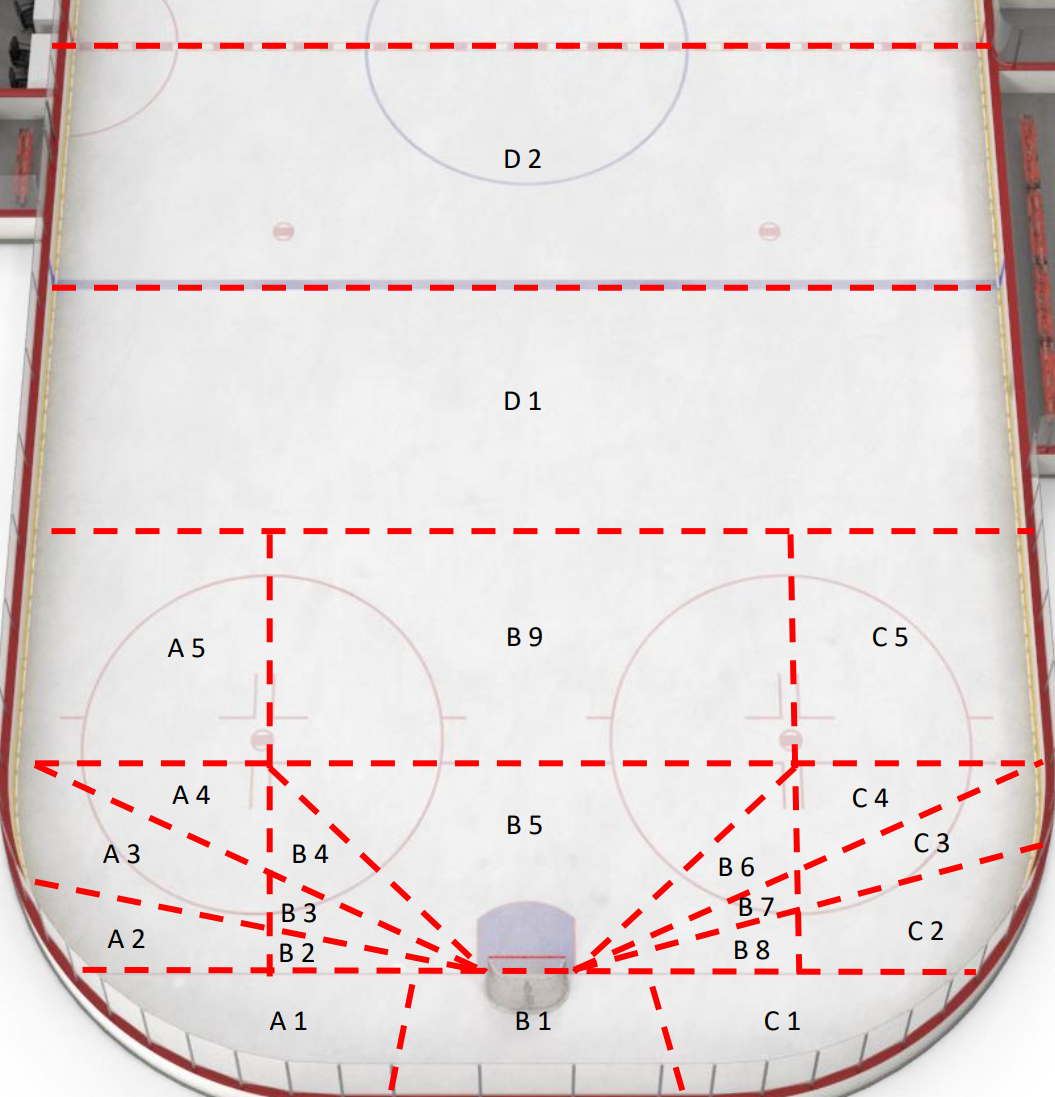
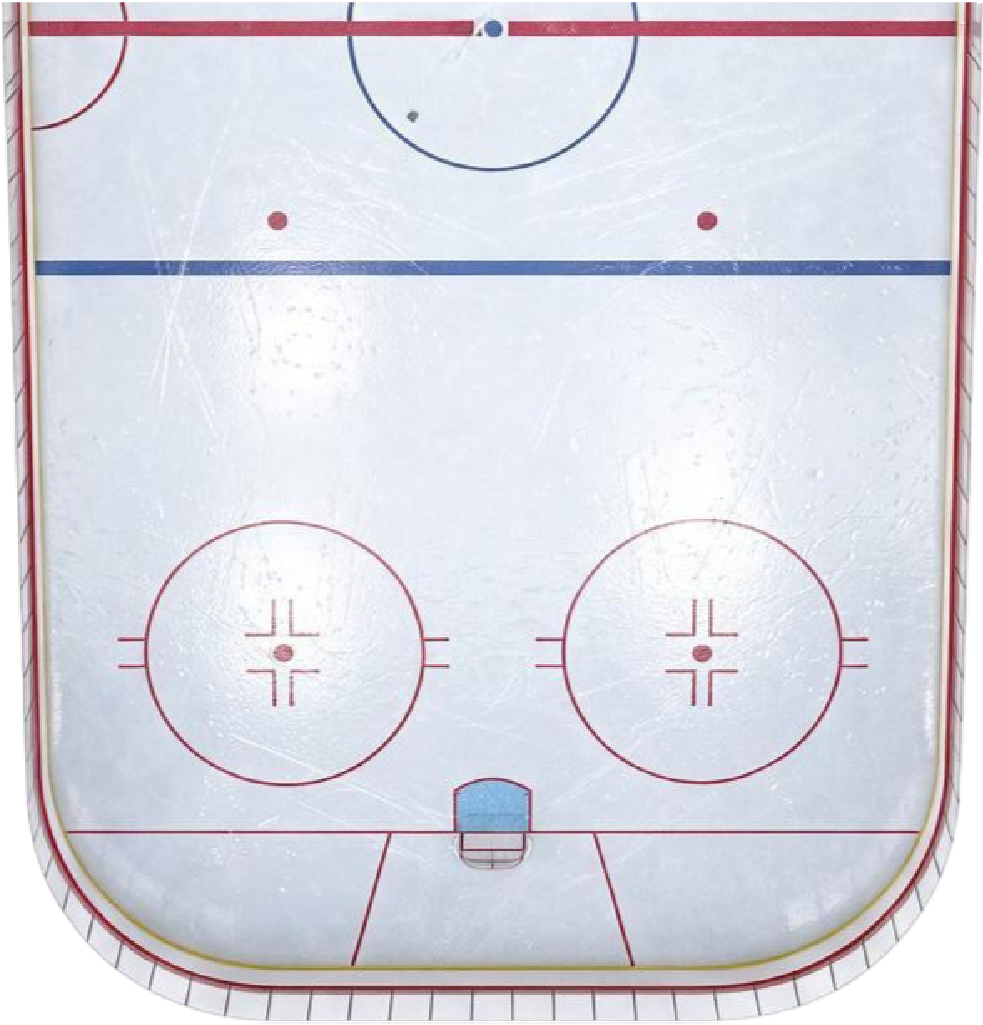
зона откуда забили - Ваня - на вратаре, убрать сетку по умолчанию - Ваня – доделать поле откуда - Ваня – заменить, где гол на ручку и сделать зеленым - Ваня – добавить дату на дневник голов (показывать Дата – потом счет) восстановлено (но есть в develop): подписи под шагами 2 и 3 пропуск второго шаг

diff --git a/lib/features/diary/ui/goal_input_wizard.dart b/lib/features/diary/ui/goal_input_wizard.dart
@@ -37,7 +37,10 @@ class _GoalInputWizardState extends ConsumerState<GoalInputWizard> {
   String? _debugColorCode;
 
   // Флаг для отображения отладочной сетки
-  bool _showDebugGrid = true;
+  bool _showDebugGrid = false;
+
+  // Сетка на шаге "Откуда" выключена по умолчанию
+  bool _showFromZoneGrid = false;
 
   //  Дизайн-система
   static const Color primaryText = Color(0xFF121212);
@@ -464,7 +467,7 @@ class _GoalInputWizardState extends ConsumerState<GoalInputWizard> {
 
   // ШАГ 3: Откуда бросок
   Widget _buildFromZoneStep() {
-    final double containerWidth = MediaQuery.of(context).size.width - 32;
+    final double containerWidth = MediaQuery.of(context).size.width;
     final double containerHeight = containerWidth * (1097 / 1055); // ✅ ОБНОВЛЁННЫЕ ПРОПОРЦИИ
 
     return Column(
@@ -477,8 +480,13 @@ class _GoalInputWizardState extends ConsumerState<GoalInputWizard> {
               const Text('Отметь откуда был бросок', style: TextStyle(fontFamily: 'Unbounded', fontSize: 14, fontWeight: FontWeight.w600, color: primaryText)),
               const SizedBox(width: 8),
               IconButton(
-                icon: Icon(_showDebugGrid ? Icons.grid_on : Icons.grid_off, color: _showDebugGrid ? accentColor : auxText),
-                onPressed: () => setState(() => _showDebugGrid = !_showDebugGrid),
+                icon: Icon(
+                  _showFromZoneGrid ? Icons.grid_on : Icons.grid_off,
+                  color: _showFromZoneGrid ? accentColor : auxText,
+                ),
+                onPressed: () => setState(
+                      () => _showFromZoneGrid = !_showFromZoneGrid,
+                ),
                 tooltip: 'Показать/скрыть сетку зон',
               ),
             ],
@@ -527,7 +535,9 @@ class _GoalInputWizardState extends ConsumerState<GoalInputWizard> {
                   children: [
                     Positioned.fill(
                       child: Image.asset(
-                        'assets/images/pole.png',
+                        _showFromZoneGrid
+                            ? 'assets/images/pole_zones.png'
+                            : 'assets/images/pole.png',
                         fit: BoxFit.contain,
                         alignment: Alignment.center,
                       ),
@@ -587,7 +597,7 @@ class _GoalInputWizardState extends ConsumerState<GoalInputWizard> {
           ),
         ),
         Padding(
-          padding: const EdgeInsets.fromLTRB(20, 8, 20, 8),
+          padding: const EdgeInsets.fromLTRB(20, 4, 20, 8),
           child: Text(
             'Здесь отмечаешь место, откуда пробили или забили гол '
                 '(на нашей половине площадки).',

diff --git a/lib/features/diary/ui/diary_main_screen.dart b/lib/features/diary/ui/diary_main_screen.dart
@@ -868,8 +868,8 @@ class _DiaryMainScreenState extends ConsumerState<DiaryMainScreen> {
 
                     // ✅ ИЗМЕНЕНИЕ: Иконка теперь кликабельна
                     leading: InkWell(
-                      onTap: () => _navigateToGoalList(match), // Открывает форму ввода голов
-                      borderRadius: BorderRadius.circular(24), // Скругление области нажатия под круг
+                      onTap: () => _navigateToGoalList(match),
+                      borderRadius: BorderRadius.circular(24),
                       child: Container(
                         width: 48,
                         height: 48,
@@ -878,9 +878,9 @@ class _DiaryMainScreenState extends ConsumerState<DiaryMainScreen> {
                           shape: BoxShape.circle,
                         ),
                         child: const Icon(
-                          Icons.sports_hockey, // Или Icons.hockey_stick, если есть такая иконка
-                          color: Color(0xFF121212),
-                          size: 24,
+                          Icons.edit_outlined,
+                          color: Color(0xFF3AAE9F),
+                          size: 26,
                         ),
                       ),
                     ),
@@ -890,8 +890,12 @@ class _DiaryMainScreenState extends ConsumerState<DiaryMainScreen> {
                       style: const TextStyle(fontFamily: 'Unbounded', fontSize: 16, fontWeight: FontWeight.bold, color: Color(0xFF121212)),
                     ),
                     subtitle: Text(
-                      match.score != null ? 'Счёт: ${match.score} | Время: ${match.gameTime ?? "60:00"}' : 'Время: ${match.gameTime ?? "60:00"}',
-                      style: const TextStyle(fontFamily: 'Lato', fontSize: 14, color: Color(0xFF9B9EA1)),
+                      '${DateFormat('dd.MM.yyyy').format(match.date)} | Счёт: ${match.score ?? "0:0"}',
+                      style: const TextStyle(
+                        fontFamily: 'Lato',
+                        fontSize: 14,
+                        color: Color(0xFF9B9EA1),
+                      ),
                     ),
                     trailing: PopupMenuButton<String>(
                       onSelected: (value) {
